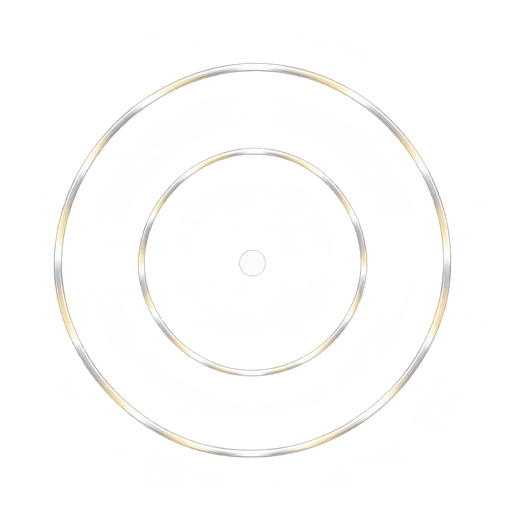
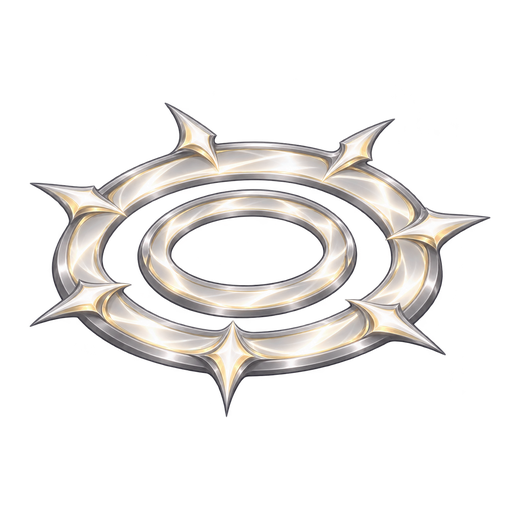
[팀장] 10차: 범위(area) 스킬 아이콘 재생성
Claude-Session: https://claude.ai/code/session_013M9CK2TidfikPKvmdBTiuk

diff --git a/teams/2-디자인/gpt-art/round10/result-area2.md b/teams/2-디자인/gpt-art/round10/result-area2.md
@@ -1,0 +1,3 @@
+이미지 생성 기능으로 [skill-icon-area.png](/home/user/poki-game/teams/2-디자인/gpt-art/round10/skill-icon-area.png)를 다시 그려 덮어썼습니다. 512×512 PNG이며 배경과 고리 안쪽이 투명한 것을 확인했습니다.
+
+생성 지시에는 첨부한 대시·가드 아이콘의 크기와 두께감을 기준으로, 앞쪽이 두꺼운 타원형 충격파 고리 2겹과 바깥을 향한 짧은 칼날 빛 7개를 흰색·은색·옅은 금색의 금속 광택으로 표현하고 글자는 넣지 않도록 했습니다.
